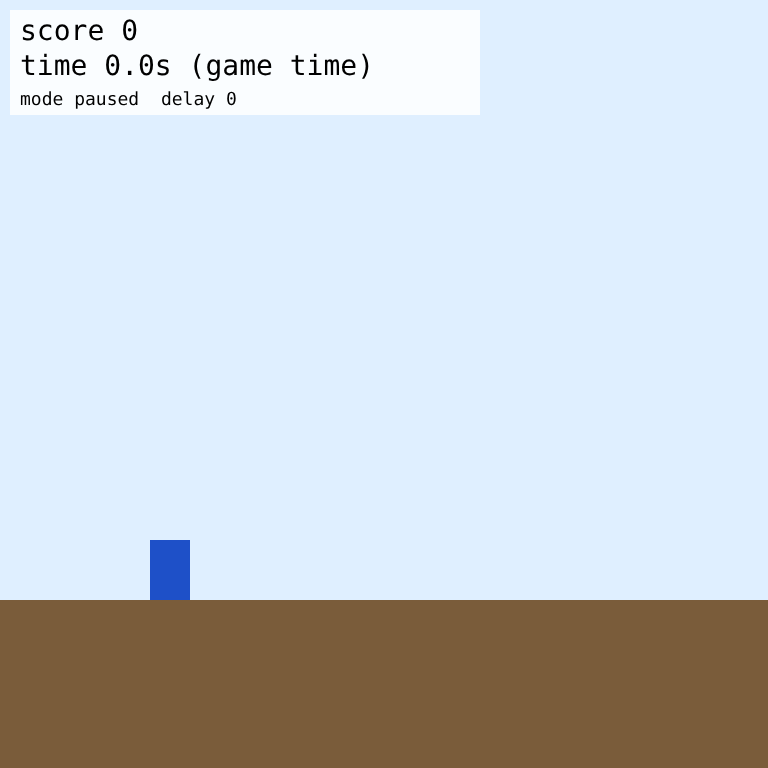
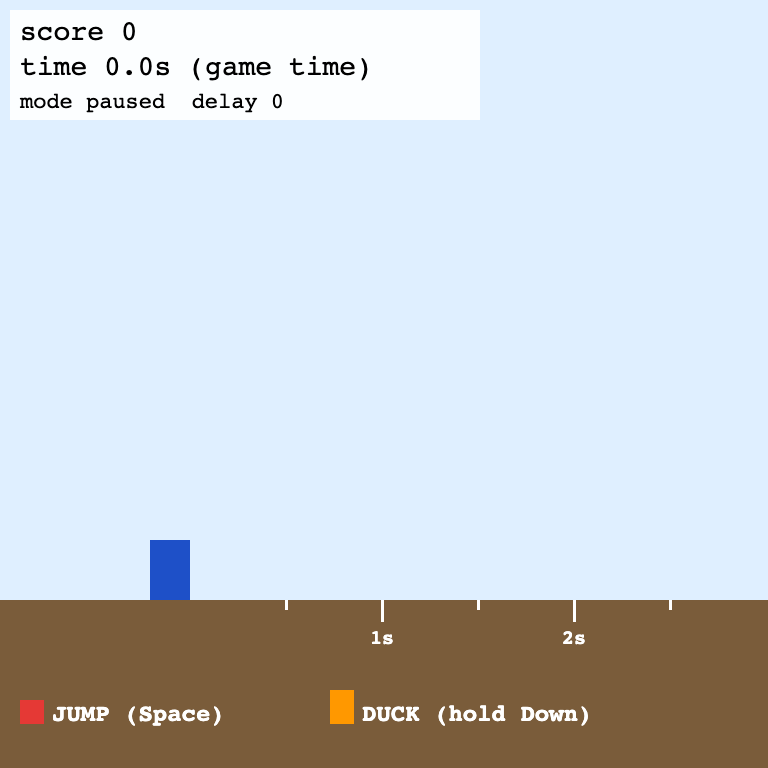
Runner v0: clearer for players and downscaled frames (drawing only)
Played by sight (screenshots at 384 px, no env.state(), seed 5):
- Could see in time: paused, all 30 s survived with 13 timed plans; red box vs orange bar was always clear.
- Could not: live at 24 ticks/s, ~8.5 s from frame to plan vs ~2.7 s look-ahead, crashed at the first bar (103). Also unclear: whether a bar needs a duck (20 px), ropes looked like obstacles, timing needed pixel measuring, tiny HUD line, crash banner hid the crash.
- Changed: bars drawn down from the top (read as "go under"), no ropes, outlined obstacles, a time ruler on the ground, one guidance line, larger HUD line, crash banner moved above the play area.

Rules, env API, and numbers unchanged: test.js 8/8, browser-test.js 5/5, play.js re-run (all replays match). README updated.

diff --git a/runner-v0/index.html b/runner-v0/index.html
@@ -44,33 +44,49 @@ function draw() {
   ctx.fillStyle = "#dfefff"; ctx.fillRect(0, 0, R.SIZE, R.SIZE);          // sky
   ctx.fillStyle = "#7a5c3a"; ctx.fillRect(0, R.GROUND, R.SIZE, R.SIZE);   // ground
 
+  // Time ruler on the ground: an obstacle at the "1s" mark hits the player 1 s (24 ticks) later.
+  const front = R.PLAYER_X + R.PLAYER_W;
+  ctx.fillStyle = "#fff"; ctx.font = "bold 20px monospace";
+  for (let t = 0.5; front + game.speed * 24 * t < R.SIZE - 30; t += 0.5) {
+    const x = front + game.speed * 24 * t;
+    const whole = t % 1 === 0;
+    ctx.fillRect(x - 1, R.GROUND, 3, whole ? 22 : 10);
+    if (whole) ctx.fillText(t + "s", x - 12, R.GROUND + 44);
+  }
+
+  // One line of guidance, always on screen, below the play area.
+  ctx.font = "bold 24px monospace";
+  ctx.fillStyle = "#e53935"; ctx.fillRect(20, 700, 24, 24);
+  ctx.fillStyle = "#fff"; ctx.fillText("JUMP (Space)", 52, 721);
+  ctx.fillStyle = "#ff9800"; ctx.fillRect(330, 690, 24, 34);
+  ctx.fillStyle = "#fff"; ctx.fillText("DUCK (hold Down)", 362, 721);
+
   for (const o of game.obstacles) {
     const b = R.obstacleBox(o);
-    if (o.kind === "high") {
-      ctx.fillStyle = "#555"; ctx.fillRect(b.left + 28, 0, 4, b.top);     // rope
-      ctx.fillStyle = "#e08a00";
-    } else {
-      ctx.fillStyle = "#c62828";
-    }
-    ctx.fillRect(b.left, b.top, b.right - b.left, b.bottom - b.top);
+    // A bar is drawn from the top of the screen: it cannot be jumped, only ducked under.
+    const top = o.kind === "high" ? 0 : b.top;
+    ctx.fillStyle = o.kind === "high" ? "#ff9800" : "#e53935";
+    ctx.fillRect(b.left, top, b.right - b.left, b.bottom - top);
+    ctx.lineWidth = 4; ctx.strokeStyle = "#000";
+    ctx.strokeRect(b.left + 2, top + 2, b.right - b.left - 4, b.bottom - top - 4);
   }
 
   const p = R.playerBox(game);
   ctx.fillStyle = "#1e50c8"; ctx.fillRect(p.left, p.top, p.right - p.left, p.bottom - p.top);
 
-  ctx.fillStyle = "rgba(255,255,255,0.85)"; ctx.fillRect(10, 10, 470, 105);  // panel behind the text
+  ctx.fillStyle = "rgba(255,255,255,0.9)"; ctx.fillRect(10, 10, 470, 110);  // panel behind the text
   ctx.fillStyle = "#000"; ctx.font = "28px monospace";
   ctx.fillText("score " + game.score, 20, 40);
   ctx.fillText("time " + (game.tick / 24).toFixed(1) + "s (game time)", 20, 75);
-  ctx.font = "18px monospace";
-  ctx.fillText("mode " + mode + (mode === "live" ? "  " + tps + " ticks/s" : "") + "  delay " + game.actionDelay, 20, 105);
+  ctx.font = "22px monospace";
+  ctx.fillText("mode " + mode + (mode === "live" ? " " + tps + " ticks/s" : "") + "  delay " + game.actionDelay, 20, 108);
 
-  if (game.done) {
-    ctx.fillStyle = "rgba(0,0,0,0.6)"; ctx.fillRect(0, 300, R.SIZE, 120);
+  if (game.done) {                    // above the play area, so the crash itself stays visible
+    ctx.fillStyle = "rgba(0,0,0,0.7)"; ctx.fillRect(0, 140, R.SIZE, 110);
     ctx.fillStyle = "#fff"; ctx.font = "40px monospace";
-    ctx.fillText(game.result.toUpperCase() + "  score " + game.score, 150, 370);
+    ctx.fillText(game.result.toUpperCase() + "  score " + game.score, 150, 200);
     ctx.font = "20px monospace";
-    ctx.fillText("press R to restart", 280, 405);
+    ctx.fillText("press R to restart", 280, 235);
   }
 }
 

diff --git a/runner-v0/README.md b/runner-v0/README.md
@@ -2,7 +2,9 @@
 
 A tiny HTML game for testing our env interface before we build the real game. It is a draft for team discussion (meeting 2026-11-11).
 
-The player runs automatically. **Red boxes**: jump (Space). **Orange hanging bars**: duck (hold Down). The score goes up 1 per tick; you lose when you touch anything. A run ends after 60 s of game time.
+The player runs automatically. **Small red boxes**: jump (Space). **Tall orange bars** (they come down from the top and stop just above the ground): duck under them (hold Down). The score goes up 1 per tick; you lose when you touch anything. A run ends after 60 s of game time.
+
+On screen: the **time ruler** on the ground shows when an obstacle will hit you (an obstacle's left edge at the "1s" mark hits 1 s of game time later), and one guidance line under it says which key goes with which colour.
 
 | start | jump | duck | crash |
 |---|---|---|---|
@@ -41,7 +43,7 @@ It follows the pending team interface: frames at a regular interval, actions at 
 
 ## First result: thinking time only hurts when the game does not wait
 
-Both bots read the numbers (`env.state()`) and are perfect when given time; neither is an LLM. "Think" is a fake wait standing in for an LLM call. The runs are 20 s long with 3 seeds; the full table is in `results.md`.
+Both bots read the numbers (`env.state()`) and are perfect when given time; neither is an LLM. "Think" is a fake wait standing in for an LLM call. The runs are 20 s long with 3 seeds; the full table is in `results.md`. Re-run 2026-11-11 after the clarity pass (drawing only): same numbers.
 
 | bot | game clock | think 0 ms | 250 ms | 1 s | 2 s |
 |---|---|---|---|---|---|
@@ -51,6 +53,15 @@ Both bots read the numbers (`env.state()`) and are perfect when given time; neit
 | planner bot, live | 12 ticks/s (half speed) | 100% | 100% | 100% | **100%** |
 
 21% means the bot crashed into the first obstacle, the same score as doing nothing.
+
+**Played by sight (2026-11-11).** Claude Code played from screenshots only (downscaled to 384 px, no `env.state()`), sending timed plans, seed 5, before the clarity pass:
+
+| player | game clock | time per decision | result |
+|---|---|---|---|
+| Claude by sight, **paused** | waits | any | 30 s survived (720/720), 13 decisions |
+| Claude by sight, live | 24 ticks/s | ~8.5 s from frame to plan | crashed into the first bar at 4.3 s (103, = doing nothing) |
+
+What was hard to see, and what changed: the bar's bottom is only 20 px lower than the player's head, so "must I duck?" was not obvious (bars are now drawn down from the top, so they read as "go under"); the thin ropes were the most visible lines on screen (removed); timing needed pixel measuring (time ruler added); the small HUD line was ~9 px tall after downscaling (now larger); the crash banner hid the crash (moved up).
 
 What this shows:
 1. **Paused results say nothing about live play.** The same bot goes from 100% to 21% with only 0.25 s of thinking. Game-TARS and SpeedrunBench report paused or offline numbers.

diff --git a/runner-v0/results.md b/runner-v0/results.md
@@ -6,19 +6,19 @@
 | mode | bot | ticks/s | think (ms) | mean score | % of max | finished | decisions / run | frame grab (ms) | replay matches |
 |---|---|---|---|---|---|---|---|---|---|
 | paused | rule | - | any | 480 | 100% | 3/3 | 480 | - | - |
-| live | rule | 24 | 0 | 480 | 100% | 3/3 | 250 | 75 | yes |
-| live | rule | 24 | 250 | 103 | 21% | 0/3 | 15 | 41 | yes |
-| live | rule | 24 | 1000 | 103 | 21% | 0/3 | 5 | 55 | yes |
-| live | rule | 24 | 2000 | 103 | 21% | 0/3 | 3 | 73 | yes |
-| live | planner | 24 | 0 | 480 | 100% | 3/3 | 251 | 74 | yes |
-| live | planner | 24 | 250 | 480 | 100% | 3/3 | 71 | 32 | yes |
-| live | planner | 24 | 1000 | 480 | 100% | 3/3 | 20 | 35 | yes |
-| live | planner | 24 | 2000 | 136 | 28% | 0/3 | 3 | 69 | yes |
-| live | rule | 12 | 0 | 480 | 100% | 3/3 | 502 | 75 | yes |
-| live | rule | 12 | 250 | 131 | 27% | 0/3 | 38 | 37 | yes |
-| live | rule | 12 | 1000 | 103 | 21% | 0/3 | 9 | 44 | yes |
-| live | rule | 12 | 2000 | 103 | 21% | 0/3 | 5 | 47 | yes |
-| live | planner | 12 | 0 | 480 | 100% | 3/3 | 497 | 76 | yes |
-| live | planner | 12 | 250 | 480 | 100% | 3/3 | 142 | 31 | yes |
-| live | planner | 12 | 1000 | 480 | 100% | 3/3 | 39 | 33 | yes |
-| live | planner | 12 | 2000 | 480 | 100% | 3/3 | 20 | 38 | yes |
+| live | rule | 24 | 0 | 480 | 100% | 3/3 | 386 | 45 | yes |
+| live | rule | 24 | 250 | 103 | 21% | 0/3 | 16 | 35 | yes |
+| live | rule | 24 | 1000 | 103 | 21% | 0/3 | 5 | 32 | yes |
+| live | rule | 24 | 2000 | 103 | 21% | 0/3 | 3 | 49 | yes |
+| live | planner | 24 | 0 | 480 | 100% | 3/3 | 384 | 46 | yes |
+| live | planner | 24 | 250 | 480 | 100% | 3/3 | 72 | 26 | yes |
+| live | planner | 24 | 1000 | 480 | 100% | 3/3 | 20 | 31 | yes |
+| live | planner | 24 | 2000 | 136 | 28% | 0/3 | 3 | 56 | yes |
+| live | rule | 12 | 0 | 480 | 100% | 3/3 | 796 | 43 | yes |
+| live | rule | 12 | 250 | 229 | 48% | 1/3 | 70 | 25 | yes |
+| live | rule | 12 | 1000 | 103 | 21% | 0/3 | 9 | 39 | yes |
+| live | rule | 12 | 2000 | 103 | 21% | 0/3 | 5 | 69 | yes |
+| live | planner | 12 | 0 | 480 | 100% | 3/3 | 796 | 43 | yes |
+| live | planner | 12 | 250 | 480 | 100% | 3/3 | 146 | 23 | yes |
+| live | planner | 12 | 1000 | 480 | 100% | 3/3 | 39 | 30 | yes |
+| live | planner | 12 | 2000 | 480 | 100% | 3/3 | 20 | 41 | yes |
